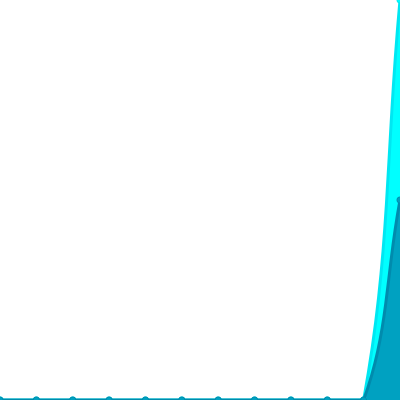
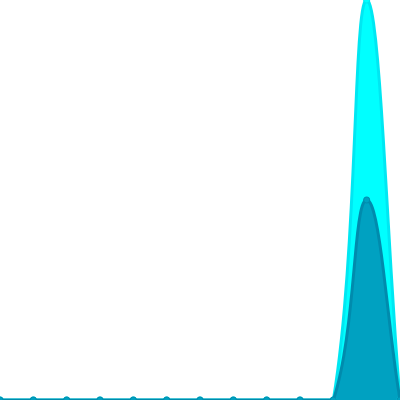
Update views

diff --git a/README.md b/README.md
@@ -26,7 +26,7 @@ The project created and maintained by [gayanvoice](https://github.com/gayanvoice
 			</a>
 		</td>
 		<td>
-			2021/8/30 12:31 AM UTC
+			2021/8/31 12:32 AM UTC
 		</td>
 		<td>
 			2
@@ -37,7 +37,7 @@ The project created and maintained by [gayanvoice](https://github.com/gayanvoice
 	</tr>
 </table>
 
-<small><i>Last updated on 2021/9/1 6:11 PM UTC</i></small>
+<small><i>Last updated on 2021/9/2 12:31 AM UTC</i></small>
 
 ## ✂Copy and 📋 Paste
 ### Total Views Badge

diff --git a/readme/394649420/year.md b/readme/394649420/year.md
@@ -20,6 +20,17 @@
 	</tr>
 	<tr>
 		<td>
+			<code>2021/9/1</code>
+		</td>
+		<td>
+			<code>0</code>
+		</td>
+		<td>
+			<code>0</code>
+		</td>
+	</tr>
+	<tr>
+		<td>
 			<code>2021/8/1</code>
 		</td>
 		<td>
@@ -153,7 +164,7 @@
 </table>
 
 </details>
-<small><i>Last updated on 2021/9/1 6:10 PM UTC</i></small>
+<small><i>Last updated on 2021/9/2 12:31 AM UTC</i></small>
 
 ## ✂Copy and 📋 Paste
 ### SVG Badge
